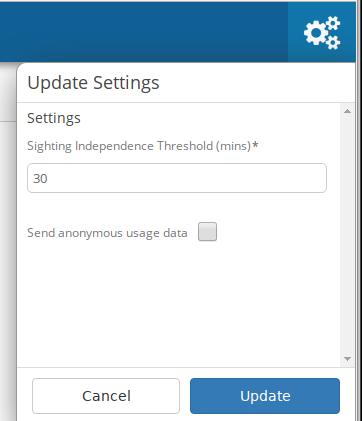
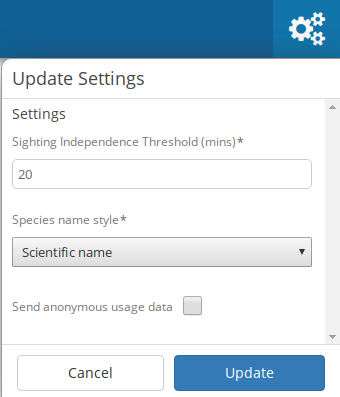
Add other 1.1.0 features to README.

Changed region(s): [[0.0, 0.0, 1.0, 1.0], [0.5294, 0.7557, 0.6176, 0.8161], [0.8824, 0.3929, 0.9118, 0.4232]]

diff --git a/README.md b/README.md
@@ -258,6 +258,11 @@ If you need to know which species have already identified in a photo, these can 
 
 The identification details entered will be applied to all photos currently selected.
 
+#### Removing photos
+**Coming in Camelot 1.1.0**
+
+The currently viewed photo, if no longer required, can be removed via the Delete button located at the bottom of the Details sidebar.
+
 #### Searching
 
 ![](doc/screenshot/library-search-bar.png)
@@ -326,11 +331,12 @@ With the Media Collection panel focused (**Control + m**):
 
 ### Settings
 
-In the top right hand corner of the main navigation is the toggle to show the settings menu.  The settings menu in Camelot currently provides two options:
+In the top right hand corner of the main navigation is the toggle to show the settings menu.  The settings menu in Camelot provides several options:
 
 ![](doc/screenshot/settings.png)
 
-* **Sighting Independence Threshold**: Camelot performs sighting independence checks on some reports.  This setting controls the duration within which photos of the same species (and, if known, the same sex and life-stage) are considered dependent in those reports.
+* **Sighting Independence Threshold**: Camelot performs sighting independence checks on some reports.  This setting controls the duration within which photos of the same species (and, if known, the same sex and life-stage) are considered dependent in those reports.  Default is 20 minutes.
+* **Species name style**: *coming in 1.1.0* whether species scientific or common names should be shown by default.  Default is scientific names.
 * **Send anonymous usage data**: Enabled this option will provide data about how you use Camelot back to the Camelot Project. This data is anonymous and is used only for the purpose of improving Camelot. It is disabled by default, though if you have the consent of others using your Camelot instance, please consider enabling this.
 
 ### Reports
@@ -436,7 +442,7 @@ First, every mappable field in Camelot must have its own column in the CSV.  For
 * **Path name**: (e.g., *Absolute path*) Must be a path name to a readable file.
 * **Integer**: (e.g., *Sighting quantity*) Must be an integer.
 
-Camelot has two sections of fields: those which are required, and those which are optional.  For a required field, every cell in the mapped column must have a valid value.  For an optional column, some cells may be blank (though non-blank cells must be valid for that field type).
+The mapping screen offers a separate section for required and optional of fields.  For a required field, every cell in the mapped column must have a valid value.  For an optional column, some cells may be blank (though non-blank cells must be valid for that field type).
 
 ##### Bulk Import when running Camelot in a client/server model
 
